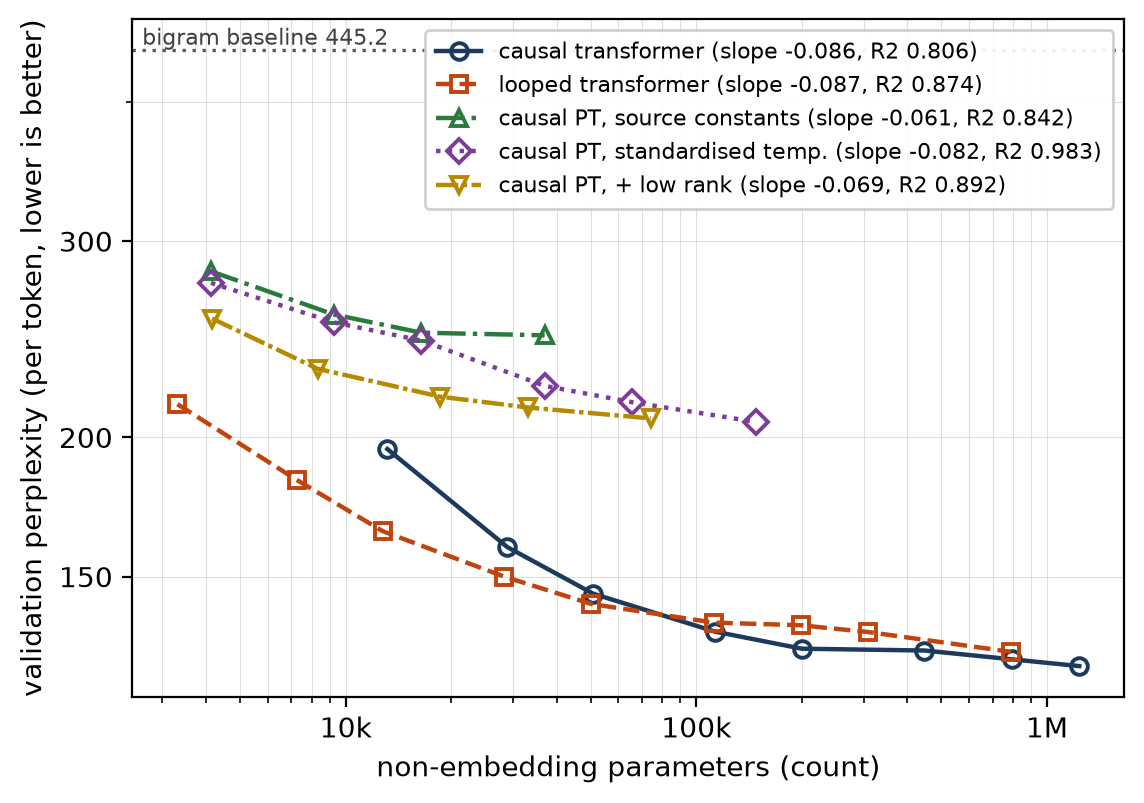
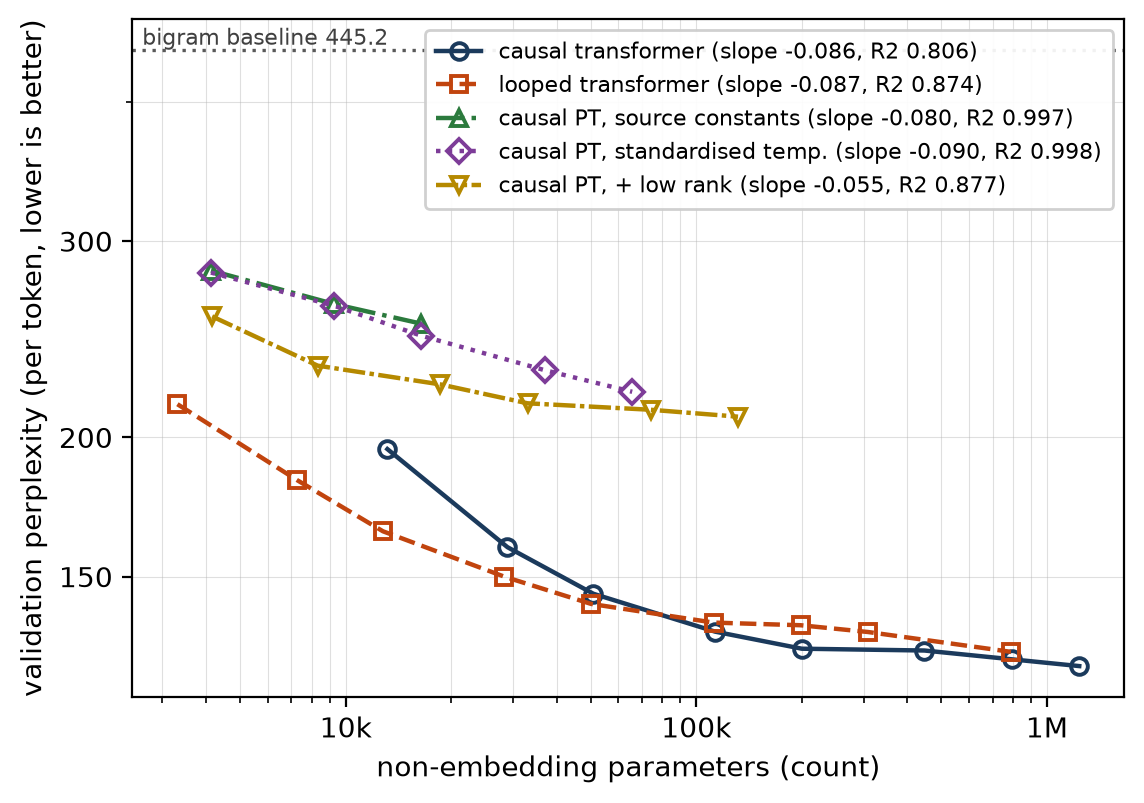
v1.9.1 [fix]: report seed means, and say so where it matters

diff --git a/paper/sections/04_experiments.tex b/paper/sections/04_experiments.tex
@@ -197,11 +197,17 @@ stops being erratic --- the control's seed standard deviation reaches $160.7$ at
 where the corrected ladder's is $4.2$. \Cref{tab:main} makes the budget comparison
 directly. \textbf{The gap is smallest where the models are smallest and widens with budget},
 which is what a shallower exponent means in practice: at 18{,}624 non-embedding parameters the
-causal PT is within a factor $1.22$ of a causal transformer interpolated to the same budget, and
+causal PT is within a factor $1.25$ of a causal transformer interpolated to the same budget, and
 by 131{,}584 it is a factor $1.57$ behind. Against the looped transformer the same progression
-runs $1.25 \to 1.53$. The best absolute number is $208.0$ at $\nlab = 192$, $\krank = 24$;
-the comparison in our earlier work, made at one point and at a very different budget, gave
-$2.17$.
+runs $1.25 \to 1.53$. The best absolute figure is $208.8$ at $\nlab = 256$, $\krank = 32$; the
+comparison in our earlier work, made at one point and at a very different budget, gave $2.17$.
+
+Every causal PT entry in this paper is a mean over seeds, never the best of them. That is worth
+saying because the two differ here by more than the differences we are discussing: at
+$\nlab = 192$ the best seed gives $208.0$ and the mean $211.8 \pm 5.3$, and a paper that quoted
+the first while claiming three seeds would be reporting a maximum and calling it a
+measurement --- which, in a model whose seed spread reaches $130$ in the region we started
+from, is exactly the failure this project set out to stop repeating.
 
 \begin{figure}[t]
 \centering

diff --git a/paper/figures/table_matched.tex b/paper/figures/table_matched.tex
@@ -3,11 +3,11 @@
 \toprule
 causal PT & non-emb. & val ppl & transformer & ratio & looped & ratio \\
 \midrule
-$\nlab=32$, $\krank=8$ & 4{,}160 & 255.7 & --- & --- & 204.7 & 1.25 \\
-$\nlab=64$, $\krank=8$ & 8{,}320 & 230.5 & --- & --- & 178.5 & 1.29 \\
-$\nlab=96$, $\krank=12$ & 18{,}624 & 217.6 & 178.5 & 1.22 & 157.6 & 1.38 \\
-$\nlab=128$, $\krank=16$ & 33{,}024 & 212.8 & 155.9 & 1.37 & 147.7 & 1.44 \\
-$\nlab=192$, $\krank=24$ & 74{,}112 & 208.0 & 139.6 & 1.49 & 139.1 & 1.50 \\
-$\nlab=256$, $\krank=32$ & 131{,}584 & 208.8 & 132.6 & 1.57 & 136.2 & 1.53 \\
+$\nlab=32$, $\krank=8$ & 4{,}160 & 256.8 $\pm$ 1.5 & --- & --- & 204.7 & 1.25 \\
+$\nlab=64$, $\krank=8$ & 8{,}320 & 232.0 $\pm$ 1.6 & --- & --- & 178.5 & 1.30 \\
+$\nlab=96$, $\krank=12$ & 18{,}624 & 223.1 $\pm$ 5.6 & 178.5 & 1.25 & 157.6 & 1.42 \\
+$\nlab=128$, $\krank=16$ & 33{,}024 & 214.6 $\pm$ 2.0 & 155.9 & 1.38 & 147.7 & 1.45 \\
+$\nlab=192$, $\krank=24$ & 74{,}112 & 211.8 $\pm$ 5.3 & 139.6 & 1.52 & 139.1 & 1.52 \\
+$\nlab=256$, $\krank=32$ & 131{,}584 & 208.8 $\pm$ 0.0 & 132.6 & 1.57 & 136.2 & 1.53 \\
 \bottomrule
 \end{tabular}

diff --git a/paper/sections/01_introduction.tex b/paper/sections/01_introduction.tex
@@ -66,7 +66,7 @@ the attention temperature the encoder model prescribes is exactly right at the u
 and mis-calibrated by up to a factor of the label-set size away from it, which is where training
 takes it within a few hundred steps. Correcting that revives label-set sizes at which the
 prescribed parameterisation sits on the unigram baseline. The resulting model reaches a
-validation perplexity of $217.6$ on the Penn Treebank against $445.2$ for a bigram and $133.9$
+validation perplexity of $208.8$ on the Penn Treebank against $445.2$ for a bigram and $133.9$
 for a causal transformer at a comparable budget; its label variables carry syntactic categories
 that nothing supervised, and its head variables --- the part that was supposed to carry
 dependency structure --- have learned locality instead. Following \citet{wu2023probabilistic},

diff --git a/paper/sections/06_discussion.tex b/paper/sections/06_discussion.tex
@@ -12,7 +12,7 @@ transformer exists, it is forced rather than chosen at every step where a choice
 available, and next-token prediction in it is inference over a variable the model already had.
 Weight tying, the language-model bias, the \textsc{[mask]}-style query and a
 mixture-of-softmaxes readout are consequences of that, not additions to it. What we do not
-claim is a perplexity win. At bracketing budgets the model is a factor of $1.5$ to $1.6$ behind a
+claim is a perplexity win. At bracketing budgets the model is a factor of $1.25$ to $1.57$ behind a
 causal transformer on this corpus, and per parameter over the range where all three models are
 measured it gains less than either baseline. That is a smaller gap than we reported before and
 it is arrived at honestly; it is not a win, and we have tried not to write it as one.
